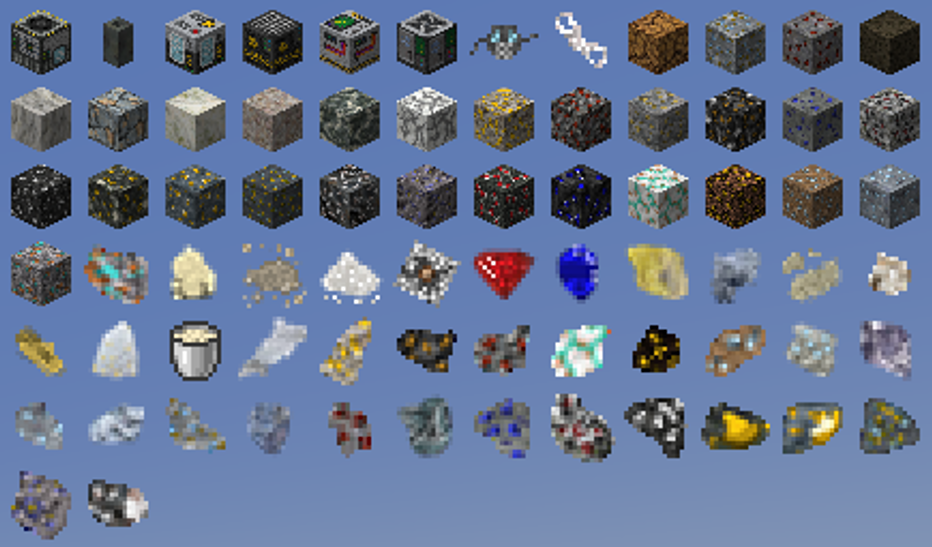
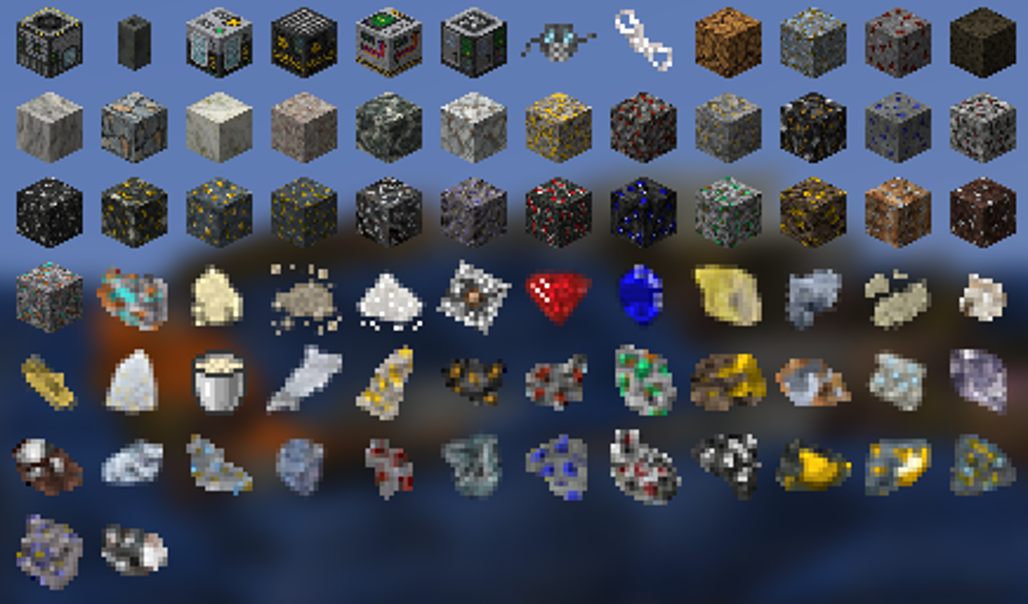
new release

diff --git a/README.md b/README.md
@@ -54,20 +54,20 @@ There are nice minerals that spawn in real-time as your rivers erode the soil.
 This mod adds malachite, limonite, magnetite, hematite, bismuthinite, cassiterite, pyrite, and more!
 
 <div align="center">
-    <img height="300" src="https://raw.githubusercontent.com/bracesoftware/erosion/main/gallery/malachite.png">
+    <img height="300" src="https://raw.githubusercontent.com/bracesoftware/erosion/main/gallery/rocks.png">
 </div>
 
 ## Compatible mods
 I highly recommend following mods for a bigger level of immersiveness:
 - Create (Zinc Chunks can be crafted into Raw Zinc)
-- Oreganized (same but for Silver)
+- Oreganized (same but for Silver and Lead)
 - This Rocks! (Forge version) (just adds a bigger variety of spawn)
 - Overgeared: A Blacksmith Mod
 - Streams Reflowing
 
 ## Can I run this?
 Although geochemical alteration of blocks and spawning of mineral rocks is a live process that is happening as you explore your world, the mod is very optimized and works seamlessly on Intel Pentium server while maintaining 20 TPS!
-- The mod consumes very few resources thanks to the FastUtil library. All important into can be obtained on the F3 menu.
+- The mod consumes very few resources thanks to the FastUtil library. All important info about the mod and its systems can be obtained on the F3 menu.
 - This mod uses its own retrogeneration and feature placement system which is different from the default Minecraft's one. It uses several queues combined with carefully forged selection system to process processes and features, so your world will not lag!
 - However if you want your world to lag, you can turn on aggressive queue processing in the `erosion_config` folder and then use `/erosion reload_config`.
 
